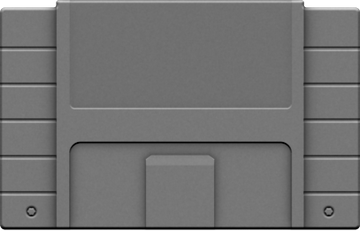
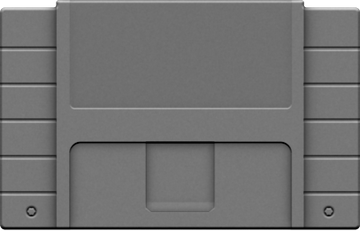
SNES NTSC cart: the middle of the bottom window is a lowered U-shaped channel
Claude-Session: https://claude.ai/code/session_01QKd2aZnZgZkwj4Ae6LDswU

Changed region(s): [[0.3972, 0.6061, 0.6111, 0.9697], [0.5806, 0.6667, 0.6111, 0.9697]]

diff --git a/tools/carts/snes_render.py b/tools/carts/snes_render.py
@@ -75,11 +75,12 @@ height -= label * 2.0  # as deep as the PAL cart's (Roy)
 window = rect(0.194, 0.617, 0.809, 1.05, 0.03)
 height -= window * 4.5  # deep, and runs out through the bottom edge (Roy's photo)
 yy, xx = np.mgrid[0:h, 0:w]
-# a raised tongue in the middle of the window, rising by a short ramp with slanted shoulders (Roy)
-notch = mask(lambda d: d.polygon([(U(0.405), V(0.69)), (U(0.42), V(0.672)), (U(0.58), V(0.672)),
-                                  (U(0.595), V(0.69)), (U(0.595), V(1.05)), (U(0.405), V(1.05))], fill=255))
-ramp = np.clip((yy - V(0.672)) / (V(0.715) - V(0.672)), 0, 1)
-height += notch * window * ramp * 3.0
+# a deeper U-shaped channel down the middle of the window: open at the top, its floor
+# rising by a short ramp to slanted shoulders at the bottom (Roy)
+notch = mask(lambda d: d.polygon([(U(0.405), V(0.60)), (U(0.595), V(0.60)), (U(0.595), V(0.90)),
+                                  (U(0.58), V(0.918)), (U(0.42), V(0.918)), (U(0.405), V(0.90))], fill=255))
+ramp = np.clip((V(0.918) - yy) / (V(0.918) - V(0.875)), 0, 1)
+height -= notch * window * ramp * 3.0
 gaps = gamebit(0.087, 0.917, height) | gamebit(0.913, 0.917, height)
 height *= cart
 hs = nd.gaussian_filter(height, SS * 0.55)
@@ -89,11 +90,11 @@ grey *= 1 - 0.65 * nd.gaussian_filter(gaps.astype(np.float32), 0.5 * SS)
 # the tall wall of the centre throws a soft shadow onto the side pieces, the same on both sides
 near = nd.distance_transform_edt(~centre) / w
 grey *= 1 - sides * 0.42 * np.exp(-near / 0.014)
-# and the walls of the deep window and of its tongue shade the floor next to them
+# and the walls of the deep window and of its channel shade the floor next to them
 wall = nd.distance_transform_edt(np.pad(window, ((1, 0), (1, 1)), constant_values=False))[1:, 1:-1] / w
 grey *= 1 - window * 0.30 * np.exp(-wall / 0.010)
-tongue = nd.distance_transform_edt(~notch) / w
-grey *= 1 - (window & ~notch) * 0.30 * np.exp(-tongue / 0.010)
+channel = nd.distance_transform_edt(notch) / w
+grey *= 1 - (window & notch) * 0.30 * np.exp(-channel / 0.010)
 A = save(grey3(grey), cart, 'snes_neutral.png')
 m = np.zeros((H, W, 4), np.uint8); m[..., :3] = 255; m[..., 3] = (A * 255).round().astype(np.uint8)
 Image.fromarray(m, 'RGBA').save(f'{out}/snes_cart.png')
